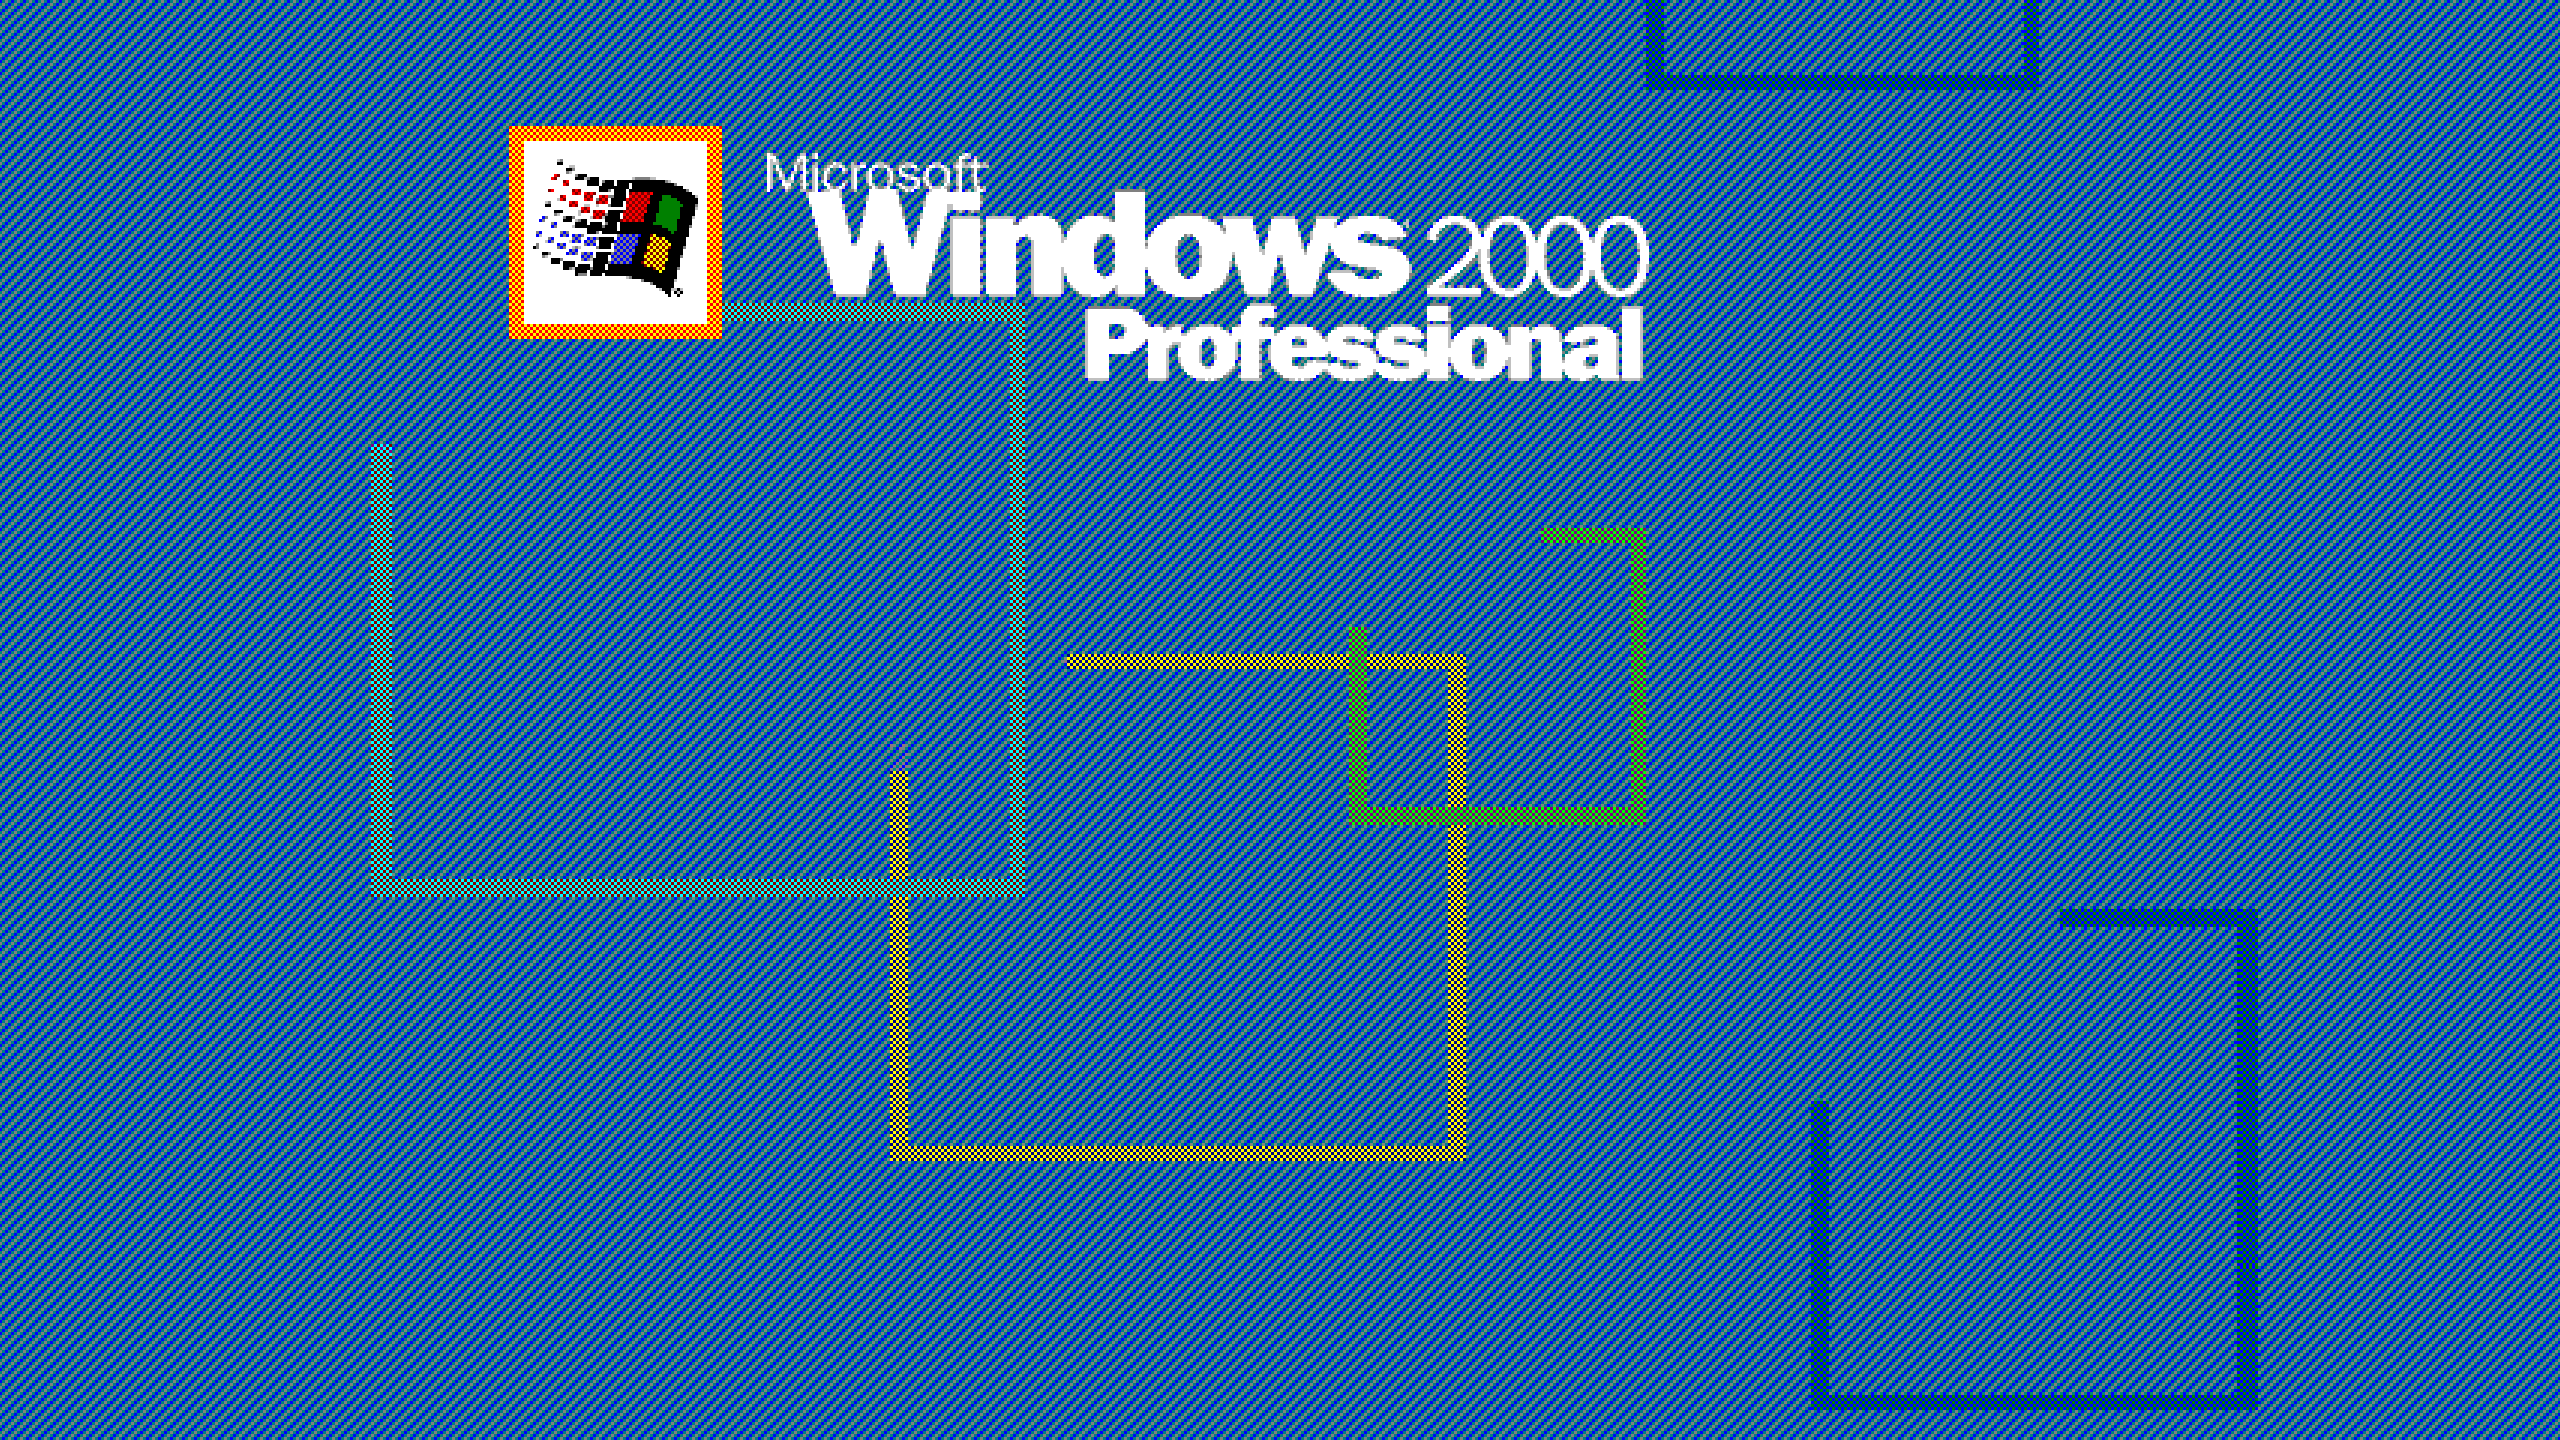
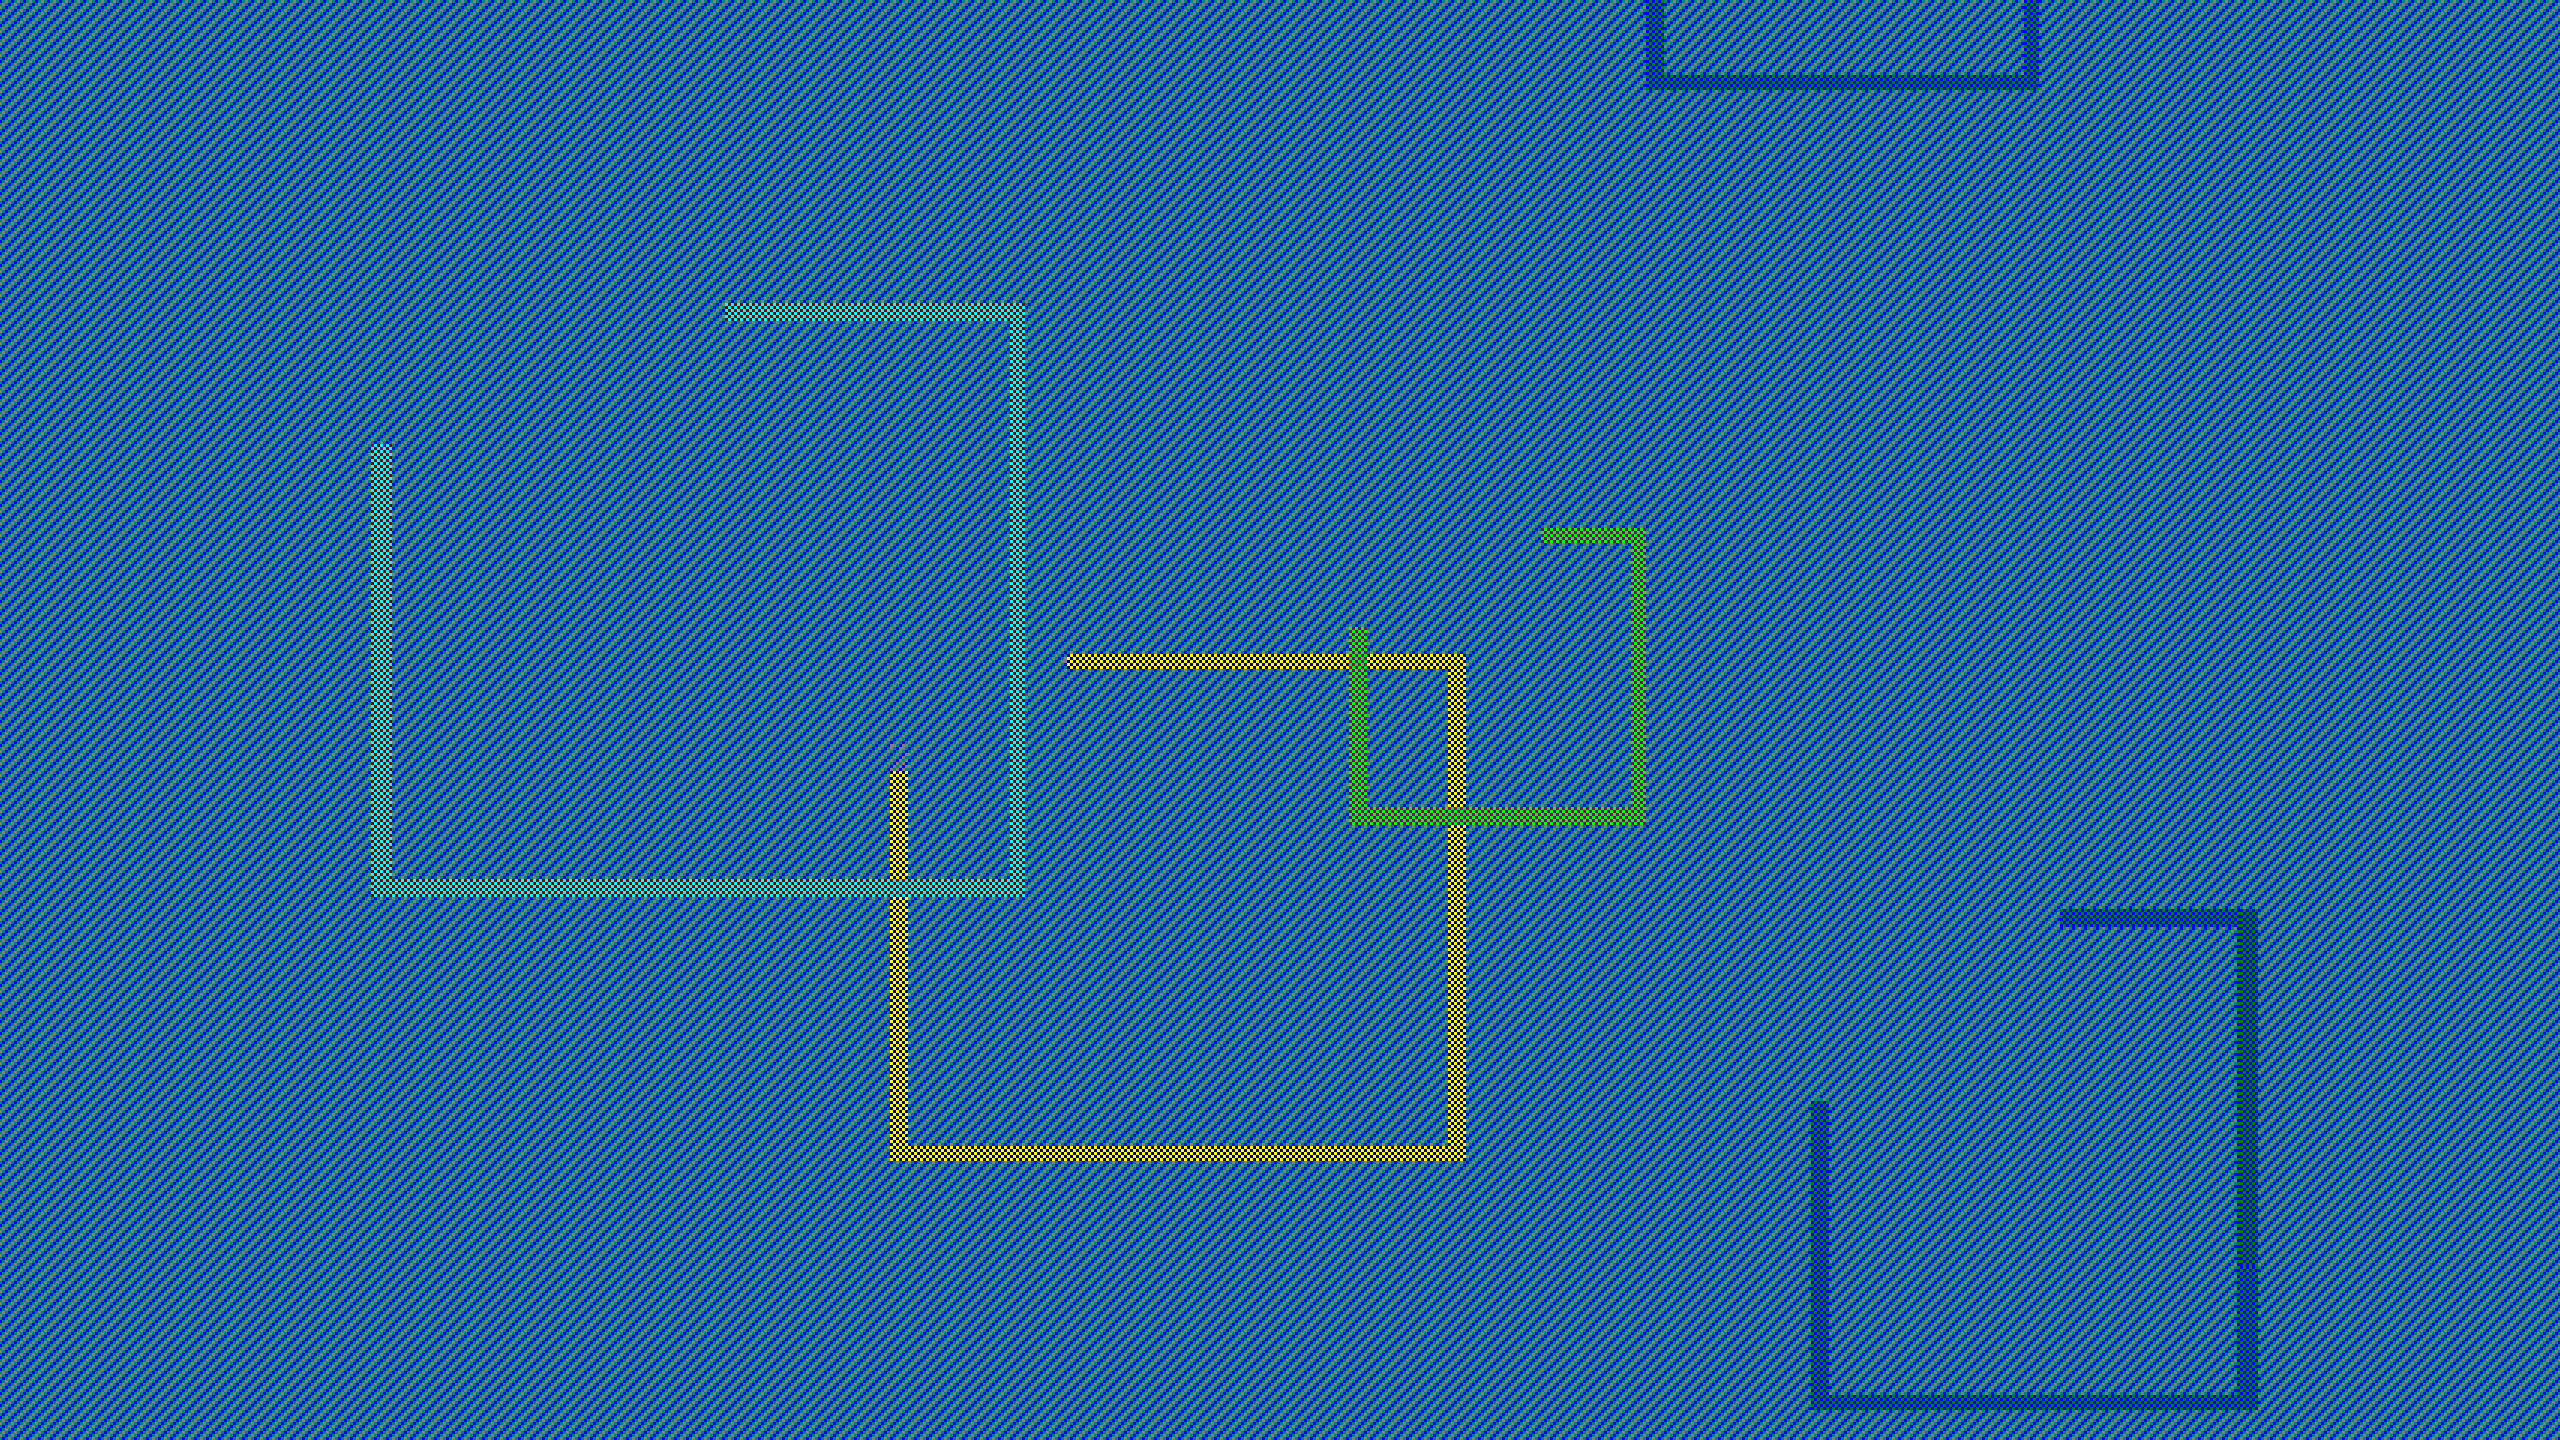
temp add

Changed region(s): [[0.1875, 0.0625, 0.6562, 0.2812]]

diff --git a/CSS/operatingSystemPages/Win2000.css b/CSS/operatingSystemPages/Win2000.css
@@ -48,6 +48,15 @@ body {
   padding: 0.5px 0.5px 0.5px 0.5px;
 }
 
+#logo {
+  width:30vw;
+  image-rendering: pixelated;
+  position:absolute;
+  z-index: -2;
+  top:5%;
+  left:5%;
+}
+
 .center {
   text-align: center;
   max-width: 400px;
@@ -104,7 +113,6 @@ form {
   flex-direction: column;
   justify-content: center;
   align-items: center;  
-  font-family: 'SegoeUIWin11';
 }
 
 #border-bottom {
@@ -115,7 +123,7 @@ form {
 }
 
 select {
-    width: 30em;
+    width: 30vw;
     margin-bottom: 5px;
     max-width: 100%;
 }
@@ -136,7 +144,7 @@ select:focus {
   src: url('../../Fonts/ms-sans-serif-1.ttf');
 }
 
-@media only screen and (max-width: 600px) {
+@media only screen and (max-width: 700px) {
   .window {
     height:45vh;
     width:41vh;  
@@ -148,5 +156,8 @@ select:focus {
   button[type="submit"] {
     right: auto;
     bottom: 17rem;
+  }
+  #logo {
+    width:80vw;
   }
 }

diff --git a/Sites/Windows/Win2000.html b/Sites/Windows/Win2000.html
@@ -14,11 +14,14 @@
   <link rel="stylesheet" href="../../CSS/operatingSystemPages/Win2000.css">
 </head>
 <body>
+  <img src="../../images/2000reducedcolorlogo.png" id="logo"></img>
 <div class="window">
   <div class="title-bar"><b>Windows 2000 ISO Repository</b><div class="title-bar-controls">
+    <button id="fullbtn" onclick="fullscreen();"  aria-label="Maximize"></button>
     <a href="../os"><button aria-label="Close"></button></a>
   </div></div><div id="window-banner"><b>Choose your build of Windows 2000.</b><br><br>&nbsp;&nbsp;Placeholder</div><div id="outline"></div>
 <form onsubmit="validateForm(event)">
+  <p style="text-align:center; color:black;">Welcome to the Windows 2000 Repository Wizard.</p>
   <select autocomplete="off" name="build" id="build">
     <option value="" selected disabled>Select Build</option>
   </select>

diff --git a/Javascript/Win2000.js b/Javascript/Win2000.js
@@ -123,3 +123,15 @@ fetchOSInfo().then(data => {
     }
   }
 )
+
+var elem = document.documentElement;
+const maxminbtn = document.getElementById("fullbtn");
+function fullscreen() {
+    if (maxminbtn.setAttribute('aria-label', 'Maximize')) {
+      elem.requestFullscreen();
+      maxminbtn.setAttribute('aria-label', 'Restore');
+    }
+    else (
+      console.log = "Condition is not true"
+    )
+  }
